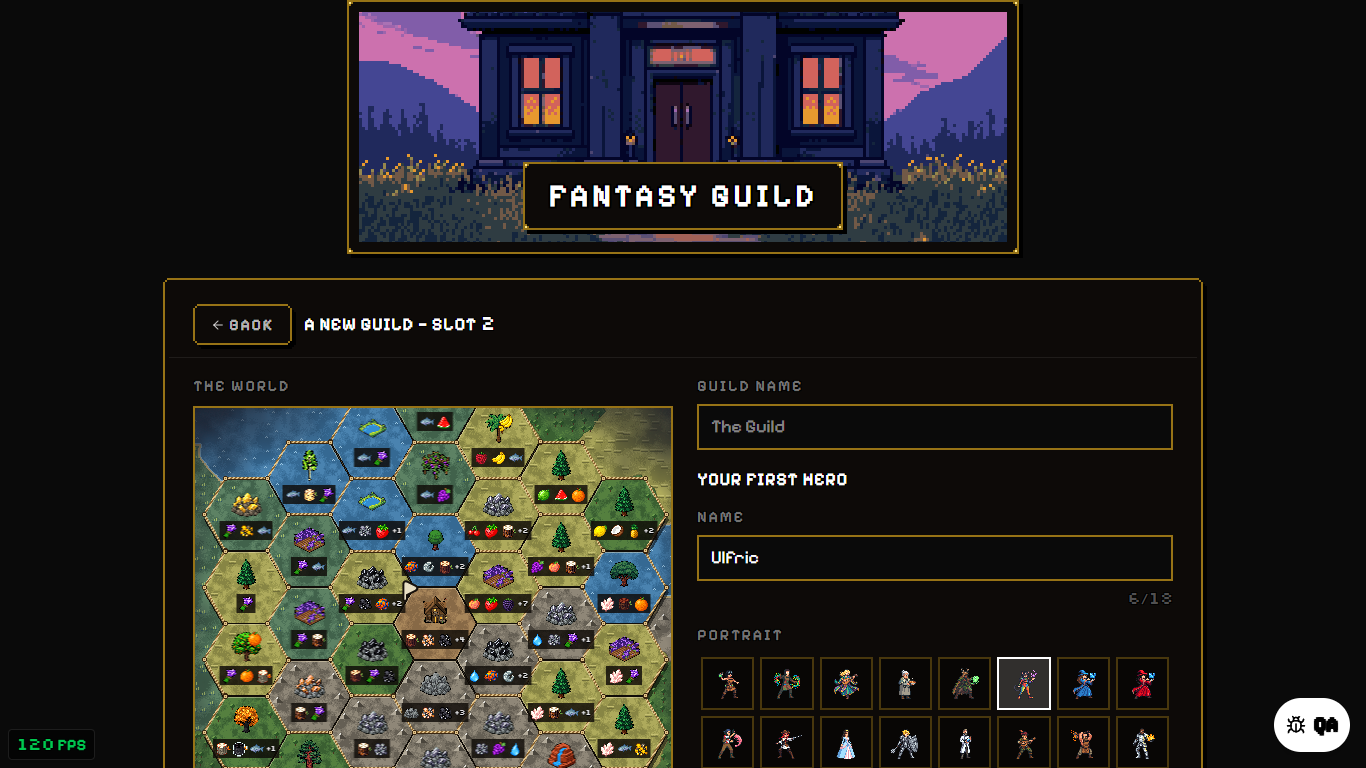
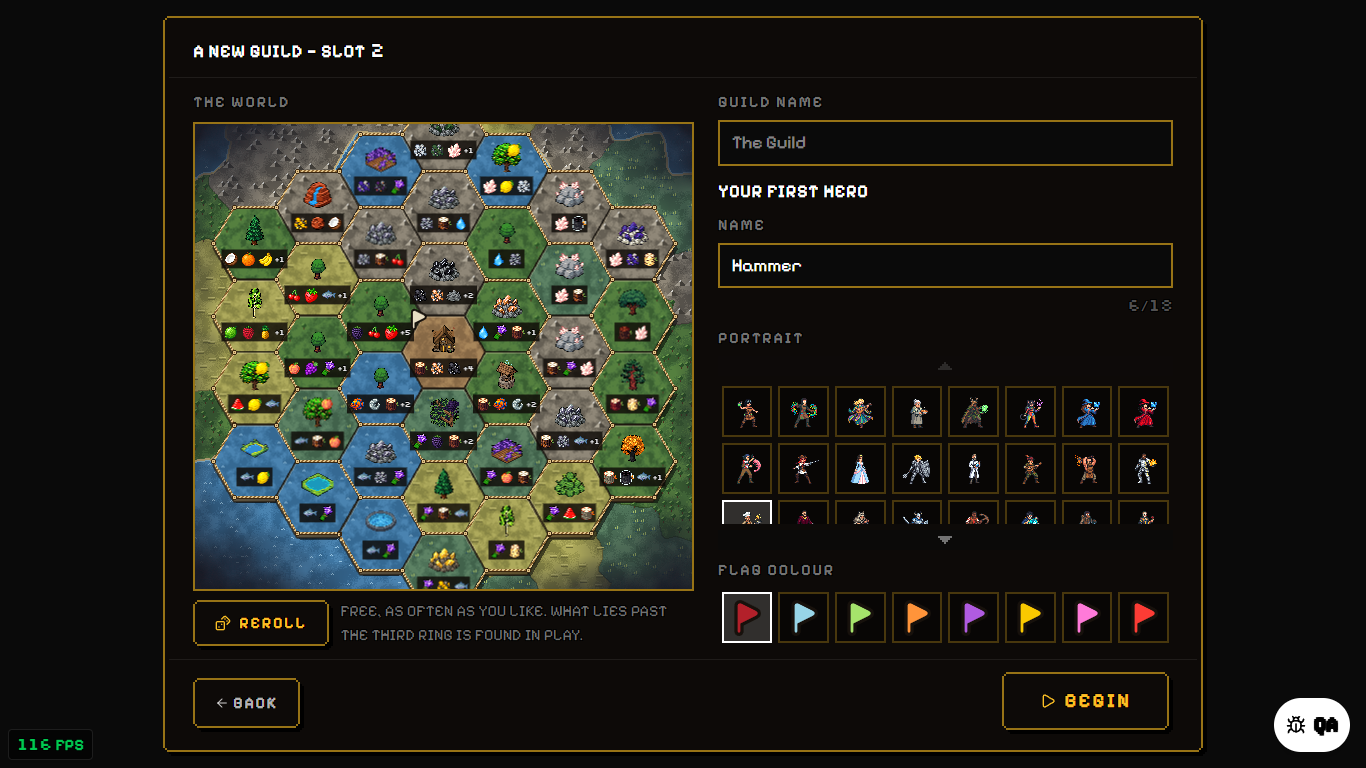
S4: the new-game screen fits 1366 x 768, screenshots re-shot

diff --git a/CHANGELOG.md b/CHANGELOG.md
@@ -5,7 +5,7 @@ project's first tagged baseline — everything before it was untagged developmen
 
 ## [Unreleased]
 
-- **A new game starts on its own screen** (brief 450 S4). Picking an empty slot's New Game opens one screen before play: **name the Guild** (the name shows on the save slot, the slot number beside it; rename it later in Settings, Game tab), see **the world's first three rings** as the world map draws them (a small read-only map, drag to look around; past ring 3 stays fog) and **Reroll** it as often as you like, for nothing, and make **the first hero** with the hero edit window's own name, portrait and flag colour controls. Begin plays with exactly that: the rolled world's seed is kept in the save and the world map is the world previewed. A reroll never gives a world that fails the ledger's checks F (a seed that does is passed over for the next). The world's ground is painted off the page's thread, so a reroll does not freeze the screen (and the world map opens without a hitch). The first hero holds Bunk Beds' free first rank, so the next rank is the second hero at 20 Oak Wood, as before; later heroes still arrive auto-named. **The tutorial's first step ("buy Bunk Beds, the first hero is free") is gone**: it opens on equipping a tool. A save from before keeps working and shows its slot number.
+- **A new game starts on its own screen** (brief 450 S4). Picking an empty slot's New Game opens one screen before play, whole on a 1366 x 768 screen with Back and Begin always in its footer (the title picture steps aside for it, and the portraits scroll with the arrow bars, in the hero edit window too): **name the Guild** (the name shows on the save slot, the slot number beside it; rename it later in Settings, Game tab), see **the world's first three rings** as the world map draws them (a small read-only map, drag to look around; past ring 3 stays fog) and **Reroll** it as often as you like, for nothing, and make **the first hero** with the hero edit window's own name, portrait and flag colour controls. Begin plays with exactly that: the rolled world's seed is kept in the save and the world map is the world previewed. A reroll never gives a world that fails the ledger's checks F (a seed that does is passed over for the next). The world's ground is painted off the page's thread, so a reroll does not freeze the screen (and the world map opens without a hitch). The first hero holds Bunk Beds' free first rank, so the next rank is the second hero at 20 Oak Wood, as before; later heroes still arrive auto-named. **The tutorial's first step ("buy Bunk Beds, the first hero is free") is gone**: it opens on equipping a tool. A save from before keeps working and shows its slot number.
 
 - **"While you were away" in two columns** (brief 440 A1): the items on the left, each item once
   with its net change in green or red (gained and spent on hover, a small mark on loot still on
